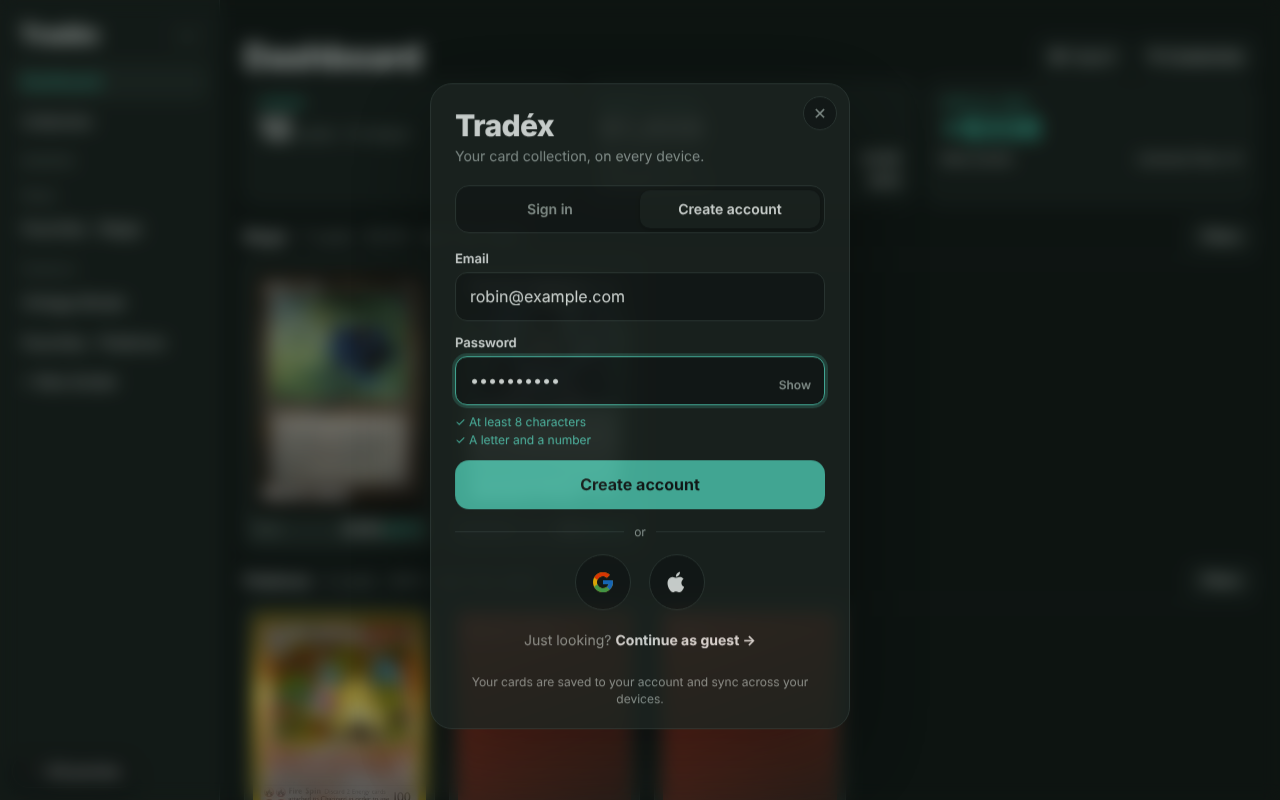
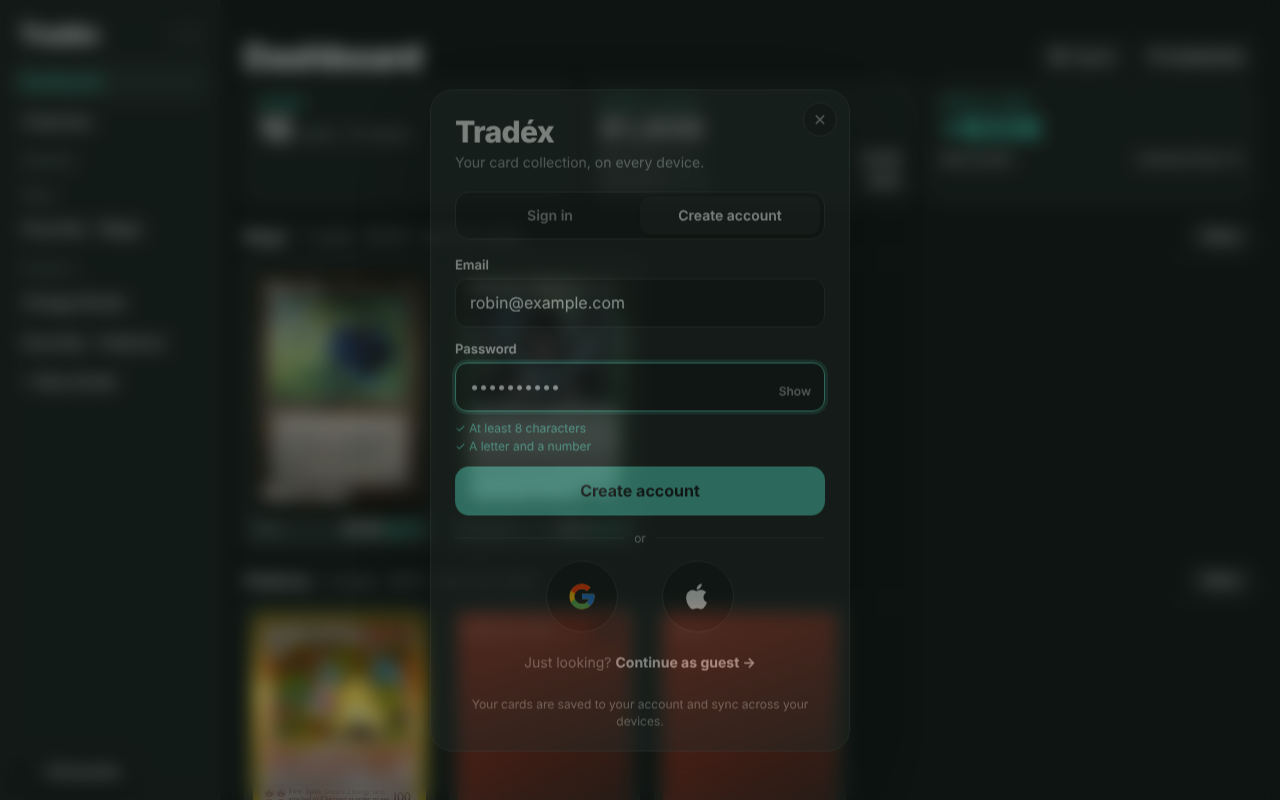
Bigger, more spaced-out Google and Apple buttons
Claude-Session: https://claude.ai/code/session_01K6ofJxh6QarDQ2gKnJ83gJ

diff --git a/js/account.js b/js/account.js
@@ -130,10 +130,10 @@ const css=`#txa{position:fixed;inset:0;z-index:100000;display:flex;align-items:c
 #txa .go:disabled{opacity:.7;cursor:wait}
 #txa .go2{width:100%;padding:12px;border-radius:14px;border:1px solid var(--line);background:var(--bg);color:inherit;font-family:inherit;font-weight:600;font-size:15px;cursor:pointer;margin:8px 0 0;display:flex;align-items:center;justify-content:center;gap:10px}
 #txa .go2 svg{width:18px;height:18px}
-#txa .oauth{display:flex;justify-content:center;gap:18px;margin:2px 0 0}
-#txa .circ{width:56px;height:56px;border-radius:50%;border:1px solid var(--line);background:var(--bg);color:inherit;display:grid;place-items:center;padding:0;margin:0;cursor:pointer;transition:transform .15s,border-color .15s}
+#txa .oauth{display:flex;justify-content:center;gap:44px;margin:6px 0 4px}
+#txa .circ{width:72px;height:72px;border-radius:50%;border:1px solid var(--line);background:var(--bg);color:inherit;display:grid;place-items:center;padding:0;margin:0;cursor:pointer;transition:transform .15s,border-color .15s}
 #txa .circ:hover{border-color:var(--acc);transform:translateY(-1px)}#txa .circ:focus-visible{outline:none;box-shadow:0 0 0 3px color-mix(in srgb,var(--acc) 35%,transparent)}
-#txa .circ svg{width:24px;height:24px}
+#txa .circ svg{width:30px;height:30px}
 #txv{position:fixed;left:50%;bottom:calc(16px + env(safe-area-inset-bottom,0px));transform:translateX(-50%);z-index:9000;display:flex;align-items:center;gap:10px;max-width:calc(100% - 24px);box-sizing:border-box;
  padding:10px 10px 10px 16px;border-radius:14px;background:var(--panel);border:1px solid var(--line);color:var(--ink);font-size:14px;box-shadow:0 10px 30px rgba(0,0,0,.35)}
 @media(max-width:520px){#txv{width:calc(100% - 24px);font-size:13px}}#txv span{overflow-wrap:anywhere}
